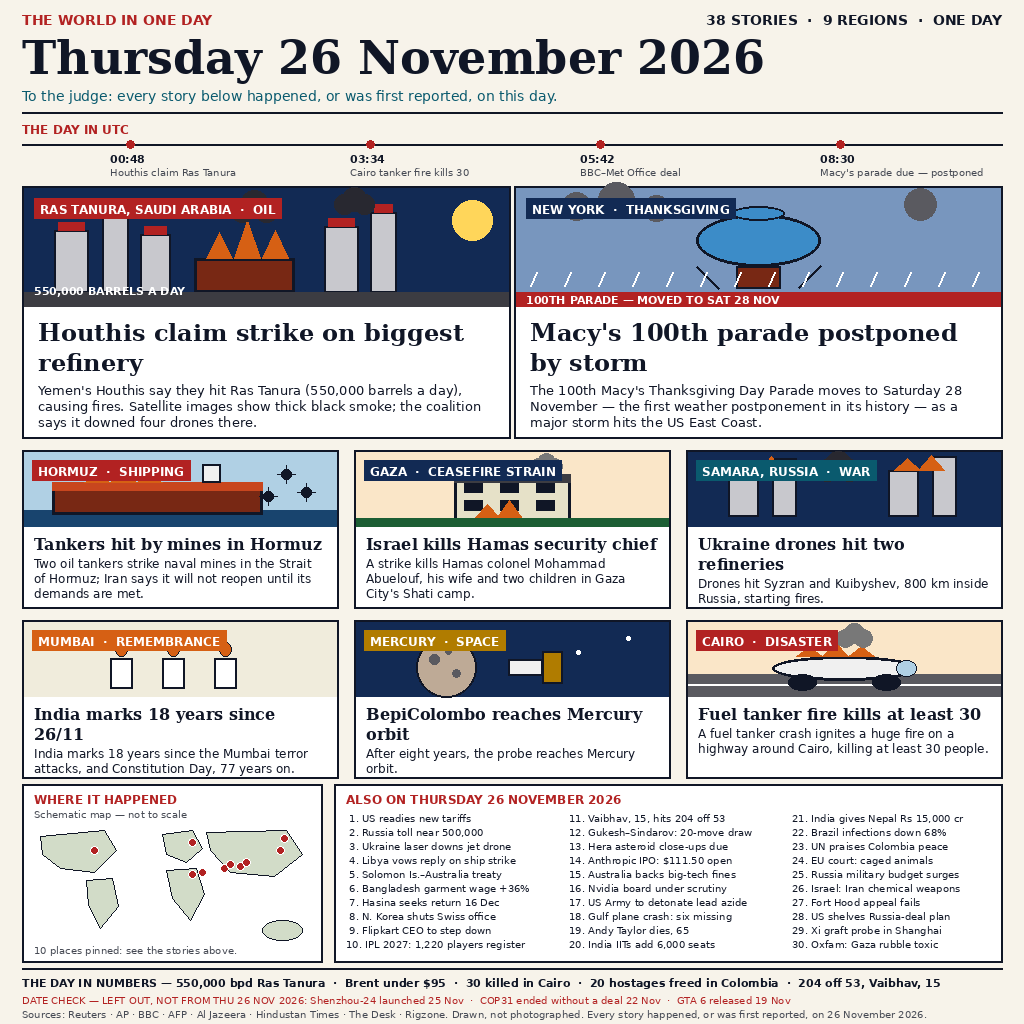
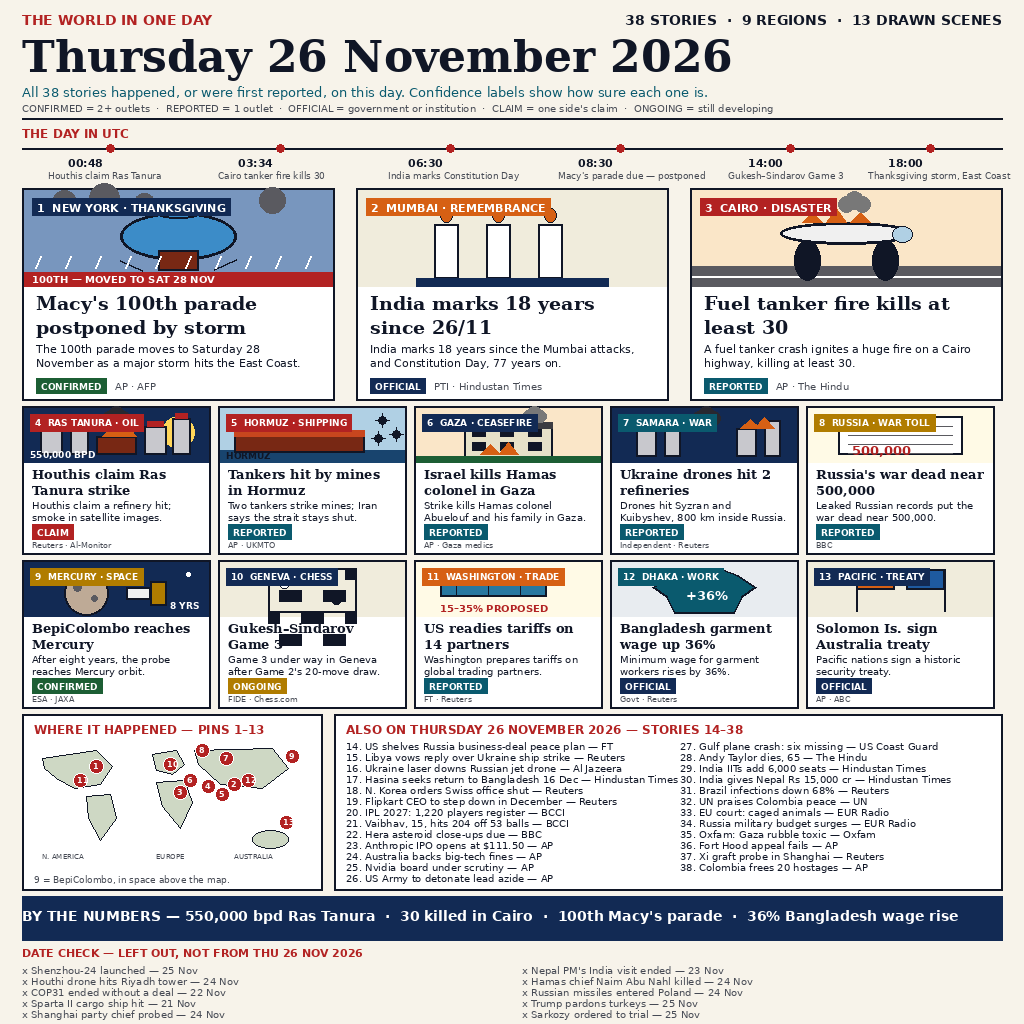
v2: 13 drawn scenes, confidence pill + named sources on every story, index 14-38, 10-item real date check, neutral lede

diff --git a/README.md b/README.md
@@ -1,10 +1,10 @@
-# The World in One Day — Thursday 26 November 2026
+# Thursday 26 November 2026 — the whole day on one page (v2)
 
 [![make.fun · news-image-20261126](https://make.fun/badge/news-image-20261126.svg)](https://make.fun/bounty/news-image-20261126?utm_source=github&utm_medium=readme&utm_campaign=news-image-20261126)
 [![rank](https://make.fun/badge/news-image-20261126/oktamind/news-image-20261126/rank.svg)](https://make.fun/bounty/news-image-20261126/leaderboard?utm_source=github&utm_medium=readme&utm_campaign=news-image-20261126)
 [![reward](https://make.fun/badge/news-image-20261126/oktamind/news-image-20261126/reward.svg)](https://make.fun/bounty/news-image-20261126?utm_source=github&utm_medium=readme&utm_campaign=news-image-20261126)
 
-A single 1024×1024 front page for Thursday 26 November 2026. Thirty-eight stories, all verified against same-day reporting: the Houthi claim on Ras Tanura and the postponed 100th Macy's parade lead the page; six drawn cards cover Hormuz, Gaza, Samara, Mumbai's 26/11 anniversary, BepiColombo at Mercury and the Cairo tanker fire; a UTC timeline, a schematic pin map and a thirty-item index fill out the day. The picture is drawn in code (PIL) during the build — no photographs, no copied art.
+One 1024×1024 front page for Thursday 26 November 2026, with 38 stories that all happened, or were first reported, on that day. Thirteen scenes are drawn in code: three leads — the 100th Macy's parade postponed by the Thanksgiving storm, India marking 18 years since 26/11 and Constitution Day, and the Cairo fuel-tanker fire — plus ten cards from Ras Tanura to Mercury. Every story carries a confidence label (CONFIRMED / REPORTED / OFFICIAL / CLAIM / ONGOING) and its named sources, so each claim can be checked on its own. A six-event UTC timeline, a world map with numbered pins 1–13, an index continuing 14–38 with a source per item, a ten-item date check of older stories left out, and a BY THE NUMBERS strip complete the page. The picture is drawn with PIL during the build — no photographs, no copied art.
 
 ## How to run
 
@@ -12,7 +12,7 @@ A single 1024×1024 front page for Thursday 26 November 2026. Thirty-eight stori
 mkdir -p out && MAKEFUN_OUTPUT_DIR=out node main.ts
 ```
 
-`main.ts` checks the picture against the contest caps (whole PNG, at most 1 MiB, at most 1024×1024) and copies it to the output directory. It writes identical bytes on every run.
+`main.ts` checks the picture against the contest caps (a whole PNG, at most 1 MiB, at most 1024×1024) and copies it to the output directory. It writes identical bytes on every run.
 
 ---
 
